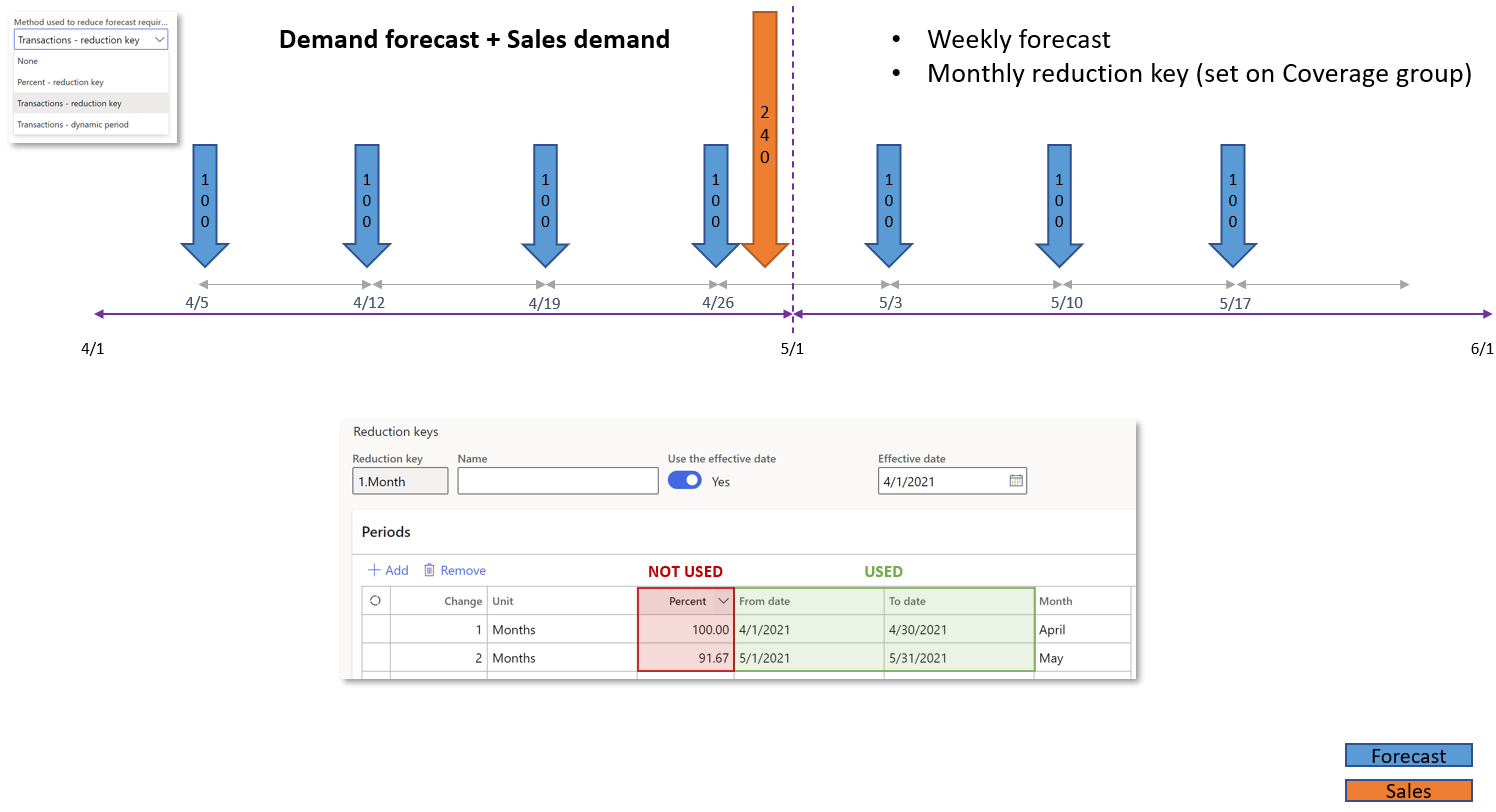
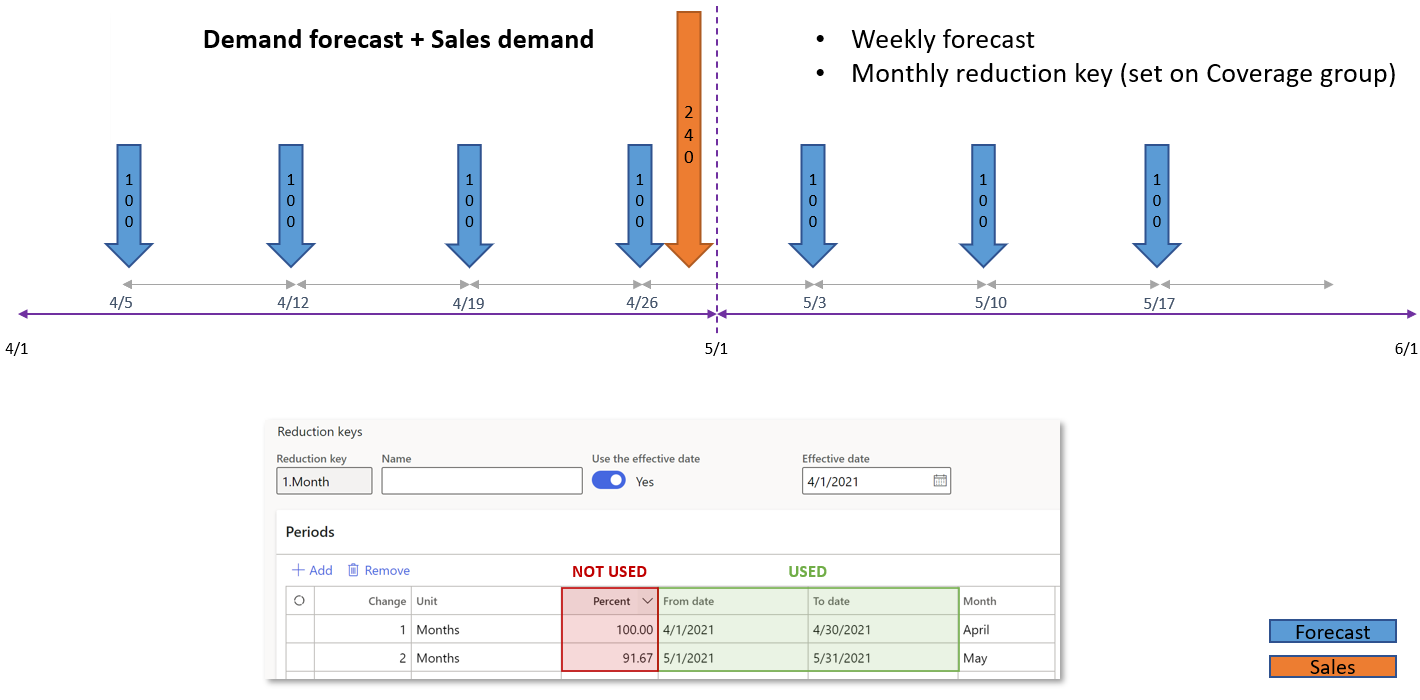
review

diff --git a/articles/supply-chain/master-planning/planning-optimization/demand-forecast.md b/articles/supply-chain/master-planning/planning-optimization/demand-forecast.md
@@ -140,26 +140,26 @@ In this case, if you run forecast scheduling on January 1, the demand forecast r
 
 #### Transactions – reduction key
 
-If you select **Transactions - reduction key**, the forecast requirements are reduced by the qualified demand transactions that occur during the periods that are defined by the reduction key.
+If you set **Method used to reduce forecast requirements** to *Transactions - reduction key*, the forecast requirements are reduced by the qualified demand transactions that occur during the periods that are defined by the reduction key.
 
-The qualified demand is defined by the **Reduce forecast by** field on the **Coverage group** page. If you select **Orders**, then only sales order transactions are considered as qualified demand, otherwise, if you select **All transactions**, then any non-intercompany issue inventory transactions are considered as qualified demand. You can also set **Include intercompany orders** to **Yes** to also consider intercompany sales orders as qualified demand.
+The qualified demand is defined by the **Reduce forecast by** field on the **Coverage groups** page. If you set **Reduce forecast by** to *Orders*, then only sales order transactions are considered as qualified demand. Otherwise, if you set **Reduce forecast by** to *All transactions*, then any non-intercompany issue inventory transactions are considered as qualified demand. Set **Include intercompany orders** to *Yes* to also consider intercompany sales orders as qualified demand.
 
 Forecast reduction starts with the first (earliest) demand forecast record in the reduction key period. If the quantity of qualified inventory transactions is greater than the quantity of demand forecast lines in the same reduction key period, then the balance of inventory transactions quantity will be used to reduce the demand forecast quantity in the previous period (if there is unconsumed forecast).
 
 If there is no unconsumed forecast left in the previous reduction key period, the balance of inventory transactions quantity will be used to reduce the forecast quantity in the next month (if there is unconsumed forecast).
 
-The value set in the **Percent** field on the reduction key lines is not used for the case of **Transactions - reduction key**, only the dates are used to define the reduction key period.
+The value set in the **Percent** field on the reduction key lines is not used when **Method used to reduce forecast requirements** is set to *Transactions - reduction key*. Only the dates are used to define the reduction key period.
 
-    > [!NOTE]
-    > Any forecast posted on the date prior to today, the today's date included, will be ignored and won't be used to create planned orders. For example, if your demand forecast for the month is generated on January 1, and you are running master planning including demand forecasting on January 2, the demand forecast line with January 1 date will be ignored by the calculation.
+> [!NOTE]
+> Any forecast posted on or before today's date will be ignored and won't be used to create planned orders. For example, if your demand forecast for the month is generated on January 1, and you are running master planning including demand forecasting on January 2, the demand forecast line dated January 1 will be ignored by the calculation.
 
 ##### Example: Transactions – reduction key
 
-This example shows how actual orders that occur during the periods that are defined by the reduction key reduce demand forecast requirements.
+This example shows how actual orders that occur during the periods defined by the reduction key reduce demand forecast requirements.
 
-![Actual orders and forecast before master planning is run](media/forecast-reduction-keys-1.png)
+[![Actual orders and forecast before master planning is run](media/forecast-reduction-keys-1-small.png)](media/forecast-reduction-keys-1.png)
 
-For this example, you select **Transactions - reduction key** in the **Method used to reduce forecast requirements** field on the **Master plans** page.
+For this example, you select *Transactions - reduction key* in the **Method used to reduce forecast requirements** field on the **Master plans** page.
 
 The following demand forecast lines exist on April 1.
 
@@ -179,7 +179,7 @@ The following sales order lines exist in April.
 |----------|------------------------------|
 | April 27 | 240                          |
 
-![Planned supply generated based on April orders](media/forecast-reduction-keys-2.png)
+[![Planned supply generated based on April orders](media/forecast-reduction-keys-2-small.png)](media/forecast-reduction-keys-2.png)
 
 The following requirement quantities are transferred to the master plan when master planning is run on April 1. You can see that the April forecast transactions were reduced by 240 demand quantity in a sequence starting with the first one.
 
@@ -203,7 +203,7 @@ The following sales order lines exist in May.
 | May 4    | 80                           |
 | May 11   | 130                          |
 
-![Planned supply generated based on April and May orders](media/forecast-reduction-keys-3.png)
+[![Planned supply generated based on April and May orders](media/forecast-reduction-keys-3-small.png)](media/forecast-reduction-keys-3.png)
 
 The following requirement quantities are transferred to the master plan when master planning is run on April 1. You can see that the April forecast transactions were reduced by 240 demand quantity in a sequence starting with the first one, while the May forecast transactions were reduced by 210 in total also starting from the first demand forecast transaction in May. However, the totals per period are preserved (400 in April, 300 in May).
 

diff --git a/articles/supply-chain/master-planning/reduction-keys.md b/articles/supply-chain/master-planning/reduction-keys.md
@@ -90,18 +90,18 @@ In this case, if you run forecast scheduling on January 1, the demand forecast r
 
 ### Transactions – reduction key
 
-If you select **Transactions - reduction key**, the forecast requirements are reduced by the qualified demand transactions that occur during the periods that are defined by the reduction key.
+If you set **Method used to reduce forecast requirements** to *Transactions - reduction key*, the forecast requirements are reduced by the qualified demand transactions that occur during the periods that are defined by the reduction key.
 
-The qualified demand is defined by the **Reduce forecast by** field on the **Coverage group** page. If you select **Orders**, then only sales order transactions are considered as qualified demand, otherwise, if you select **All transactions**, then any non-intercompany issue inventory transactions are considered as qualified demand. You can also set **Include intercompany orders** to **Yes** to also consider intercompany sales orders as qualified demand.
+The qualified demand is defined by the **Reduce forecast by** field on the **Coverage groups** page. If you set **Reduce forecast by** to *Orders*, then only sales order transactions are considered as qualified demand. Otherwise, if you set **Reduce forecast by** to *All transactions*, then any non-intercompany issue inventory transactions are considered as qualified demand. Set **Include intercompany orders** to *Yes* to also consider intercompany sales orders as qualified demand.
 
 Forecast reduction starts with the first (earliest) demand forecast record in the reduction key period. If the quantity of qualified inventory transactions is greater than the quantity of demand forecast lines in the same reduction key period, then the balance of inventory transactions quantity will be used to reduce the demand forecast quantity in the previous period (if there is unconsumed forecast).
 
 If there is no unconsumed forecast left in the previous reduction key period, the balance of inventory transactions quantity will be used to reduce the forecast quantity in the next month (if there is unconsumed forecast).
 
-The value set in the **Percent** field on the reduction key lines is not used for the case of **Transactions - reduction key**, only the dates are used to define the reduction key period.
+The value set in the **Percent** field on the reduction key lines is not used when **Method used to reduce forecast requirements** is set to *Transactions - reduction key*. Only the dates are used to define the reduction key period.
 
-    > [!NOTE]
-    > Any forecast posted on the date prior to the date of running master planning with forecast planning, will be ignored and won't be used to create planned orders. For example, if your demand forecast for the month is generated on January 1, and you are running master planning including demand forecasting on January 2, the demand forecast line with January 1 date will be ignored by the calculation.
+> [!NOTE]
+> Any forecast posted on or before today's date will be ignored and won't be used to create planned orders. For example, if your demand forecast for the month is generated on January 1, and you are running master planning including demand forecasting on January 2, the demand forecast line dated January 1 will be ignored by the calculation.
 
 #### Example: Transactions – reduction key
 
